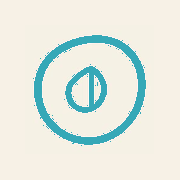
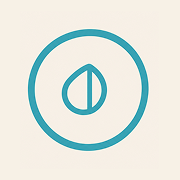
Updates

Changed region(s): [[0.1389, 0.1389, 0.8333, 0.8611], [0.3333, 0.3333, 0.6111, 0.6389]]

diff --git a/sw.js b/sw.js
@@ -1,1 +1,1 @@
-if(!self.define){let e,n={};const i=(i,c)=>(i=new URL(i+".js",c).href,n[i]||new Promise(n=>{if("document"in self){const e=document.createElement("script");e.src=i,e.onload=n,document.head.appendChild(e)}else e=i,importScripts(i),n()}).then(()=>{let e=n[i];if(!e)throw new Error(`Module ${i} didn’t register its module`);return e}));self.define=(c,o)=>{const s=e||("document"in self?document.currentScript.src:"")||location.href;if(n[s])return;let d={};const r=e=>i(e,s),b={module:{uri:s},exports:d,require:r};n[s]=Promise.all(c.map(e=>b[e]||r(e))).then(e=>(o(...e),d))}}define(["./workbox-dcde9eb3"],function(e){"use strict";self.skipWaiting(),e.clientsClaim(),e.precacheAndRoute([{url:"registerSW.js",revision:"1872c500de691dce40960bb85481de07"},{url:"index.html",revision:"a96d90ed7f7553b1012ecd36b09962a2"},{url:"icons/icon-512.png",revision:"0c4777b5e8d7550749b1cec9bb098822"},{url:"icons/icon-512-maskable.png",revision:"a082f0bca9eddc1b17d609b6d5e196b7"},{url:"icons/icon-192.png",revision:"e1b66dc59fa9044250838cd7bc7cba46"},{url:"icons/icon-192-maskable.png",revision:"d9fded5e6c52d5c1407ba94965bb0524"},{url:"icons/apple-touch-icon.png",revision:"6dbad8ce458db177301dd8242edf54c0"},{url:"assets/logo-almenta-DZaavVSx.png",revision:null},{url:"assets/index-Ciynr8lc.js",revision:null},{url:"icons/apple-touch-icon.png",revision:"6dbad8ce458db177301dd8242edf54c0"},{url:"icons/icon-192-maskable.png",revision:"d9fded5e6c52d5c1407ba94965bb0524"},{url:"icons/icon-192.png",revision:"e1b66dc59fa9044250838cd7bc7cba46"},{url:"icons/icon-512-maskable.png",revision:"a082f0bca9eddc1b17d609b6d5e196b7"},{url:"icons/icon-512.png",revision:"0c4777b5e8d7550749b1cec9bb098822"},{url:"manifest.webmanifest",revision:"1cb6a5607c43b22b4b08ccec9f3601dc"}],{}),e.cleanupOutdatedCaches(),e.registerRoute(new e.NavigationRoute(e.createHandlerBoundToURL("index.html"))),e.registerRoute(/^https:\/\/fonts\.(googleapis|gstatic)\.com\/.*/i,new e.CacheFirst({cacheName:"google-fonts-cache",plugins:[new e.ExpirationPlugin({maxEntries:10,maxAgeSeconds:31536e3})]}),"GET")});
+if(!self.define){let e,n={};const i=(i,c)=>(i=new URL(i+".js",c).href,n[i]||new Promise(n=>{if("document"in self){const e=document.createElement("script");e.src=i,e.onload=n,document.head.appendChild(e)}else e=i,importScripts(i),n()}).then(()=>{let e=n[i];if(!e)throw new Error(`Module ${i} didn’t register its module`);return e}));self.define=(c,o)=>{const s=e||("document"in self?document.currentScript.src:"")||location.href;if(n[s])return;let r={};const l=e=>i(e,s),f={module:{uri:s},exports:r,require:l};n[s]=Promise.all(c.map(e=>f[e]||l(e))).then(e=>(o(...e),r))}}define(["./workbox-dcde9eb3"],function(e){"use strict";self.skipWaiting(),e.clientsClaim(),e.precacheAndRoute([{url:"registerSW.js",revision:"1872c500de691dce40960bb85481de07"},{url:"index.html",revision:"a96d90ed7f7553b1012ecd36b09962a2"},{url:"icons/icon-512.png",revision:"939e92b09f3c307f4dc7686db6e198ec"},{url:"icons/icon-512-maskable.png",revision:"939e92b09f3c307f4dc7686db6e198ec"},{url:"icons/icon-192.png",revision:"028a96ef64f8ec3f6c434b4a777fc183"},{url:"icons/icon-192-maskable.png",revision:"028a96ef64f8ec3f6c434b4a777fc183"},{url:"icons/apple-touch-icon.png",revision:"e41409859cf82e3930ba54853e00753d"},{url:"assets/logo-almenta-DZaavVSx.png",revision:null},{url:"assets/index-Ciynr8lc.js",revision:null},{url:"icons/apple-touch-icon.png",revision:"e41409859cf82e3930ba54853e00753d"},{url:"icons/icon-192-maskable.png",revision:"028a96ef64f8ec3f6c434b4a777fc183"},{url:"icons/icon-192.png",revision:"028a96ef64f8ec3f6c434b4a777fc183"},{url:"icons/icon-512-maskable.png",revision:"939e92b09f3c307f4dc7686db6e198ec"},{url:"icons/icon-512.png",revision:"939e92b09f3c307f4dc7686db6e198ec"},{url:"manifest.webmanifest",revision:"1cb6a5607c43b22b4b08ccec9f3601dc"}],{}),e.cleanupOutdatedCaches(),e.registerRoute(new e.NavigationRoute(e.createHandlerBoundToURL("index.html"))),e.registerRoute(/^https:\/\/fonts\.(googleapis|gstatic)\.com\/.*/i,new e.CacheFirst({cacheName:"google-fonts-cache",plugins:[new e.ExpirationPlugin({maxEntries:10,maxAgeSeconds:31536e3})]}),"GET")});
